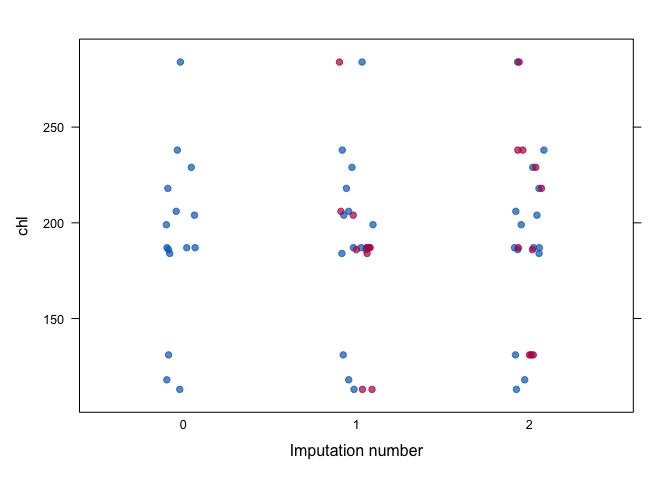
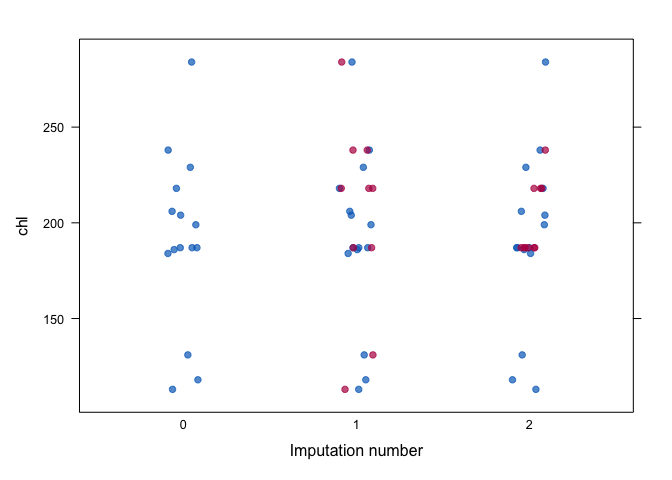
Update to mice 3.13.17

diff --git a/README.md b/README.md
@@ -4,7 +4,7 @@
 
 [![CRAN_Status_Badge](https://www.r-pkg.org/badges/version/mice)](https://cran.r-project.org/package=mice)
 [![](https://cranlogs.r-pkg.org/badges/mice)](https://cran.r-project.org/package=mice)
-[![](https://img.shields.io/badge/github%20version-3.13.16-orange.svg)](https://amices.github.io/mice/)
+[![](https://img.shields.io/badge/github%20version-3.13.17-orange.svg)](https://amices.github.io/mice/)
 
 ## [Multivariate Imputation by Chained Equations](https://amices.github.io/mice/)
 
@@ -82,10 +82,10 @@ fit <- with(imp, lm(chl ~ age + bmi))
 
 # pool and summarize the results
 summary(pool(fit))
-#>          term estimate std.error statistic   df p.value
-#> 1 (Intercept)   -49.30    101.37    -0.486 1.82  0.6789
-#> 2         age    38.28     11.37     3.367 5.45  0.0175
-#> 3         bmi     6.54      3.08     2.124 2.14  0.1591
+#>          term estimate std.error statistic    df p.value
+#> 1 (Intercept)     9.08     73.09     0.124  4.50  0.9065
+#> 2         age    35.23     17.46     2.017  1.36  0.2377
+#> 3         bmi     4.69      1.94     2.417 15.25  0.0286
 ```
 
 The complete-data is fit to each imputed dataset, and the results are

diff --git a/NEWS.md b/NEWS.md
@@ -1,3 +1,16 @@
+# mice 3.13.17
+
+* Adds four new univariate functions using the lasso for automatic variable selection: 
+
+| Function                          | Description                       |
+| --------------------------------- | --------------------------------- |
+|`mice.impute.lasso.norm()`         | Lasso linear regression |
+|`mice.impute.lasso.logreg()`       | Lasso logistic regression | 
+|`mice.impute.lasso.select.norm()`  | Lasso selector + linear regression |
+|`mice.impute.lasso.select.logreg()`| Lasso selector + logistic regression | 
+
+Contributed by @EdoardoCostantini (#438).
+
 # mice 3.13.16
 
 * Repairs an error in the `mice:::barnard.rubin()` function for infinite `dfcom`. Thanks @huftis (#441).
